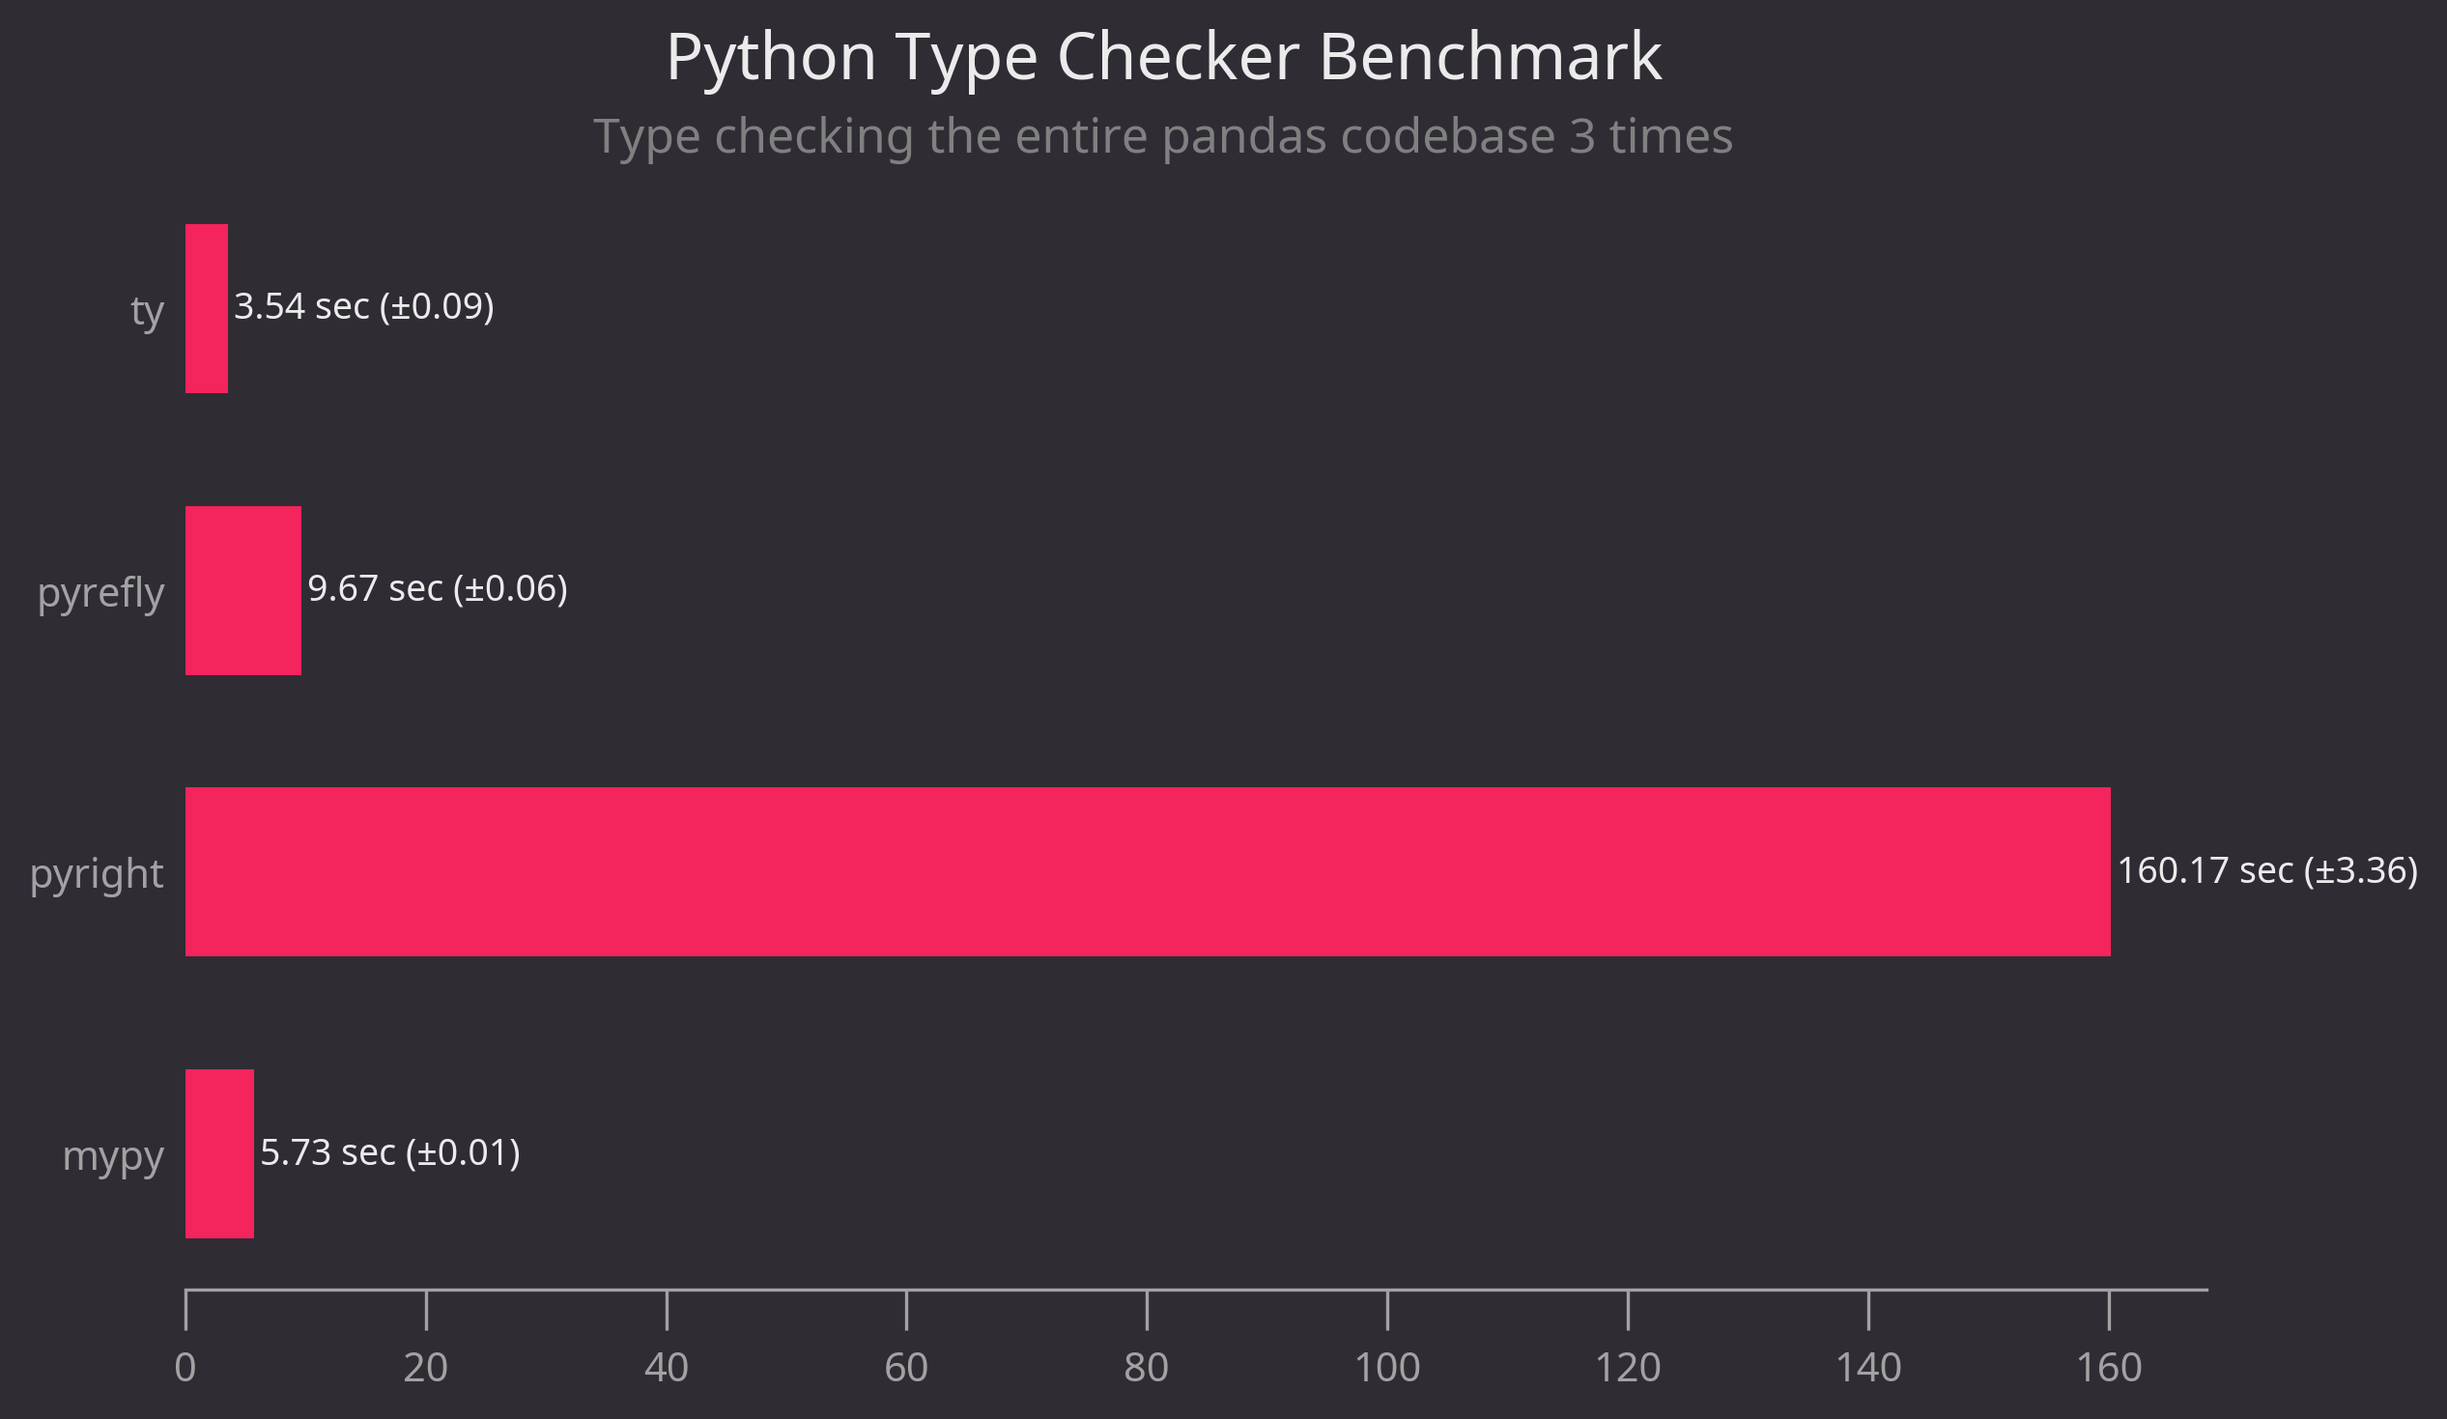
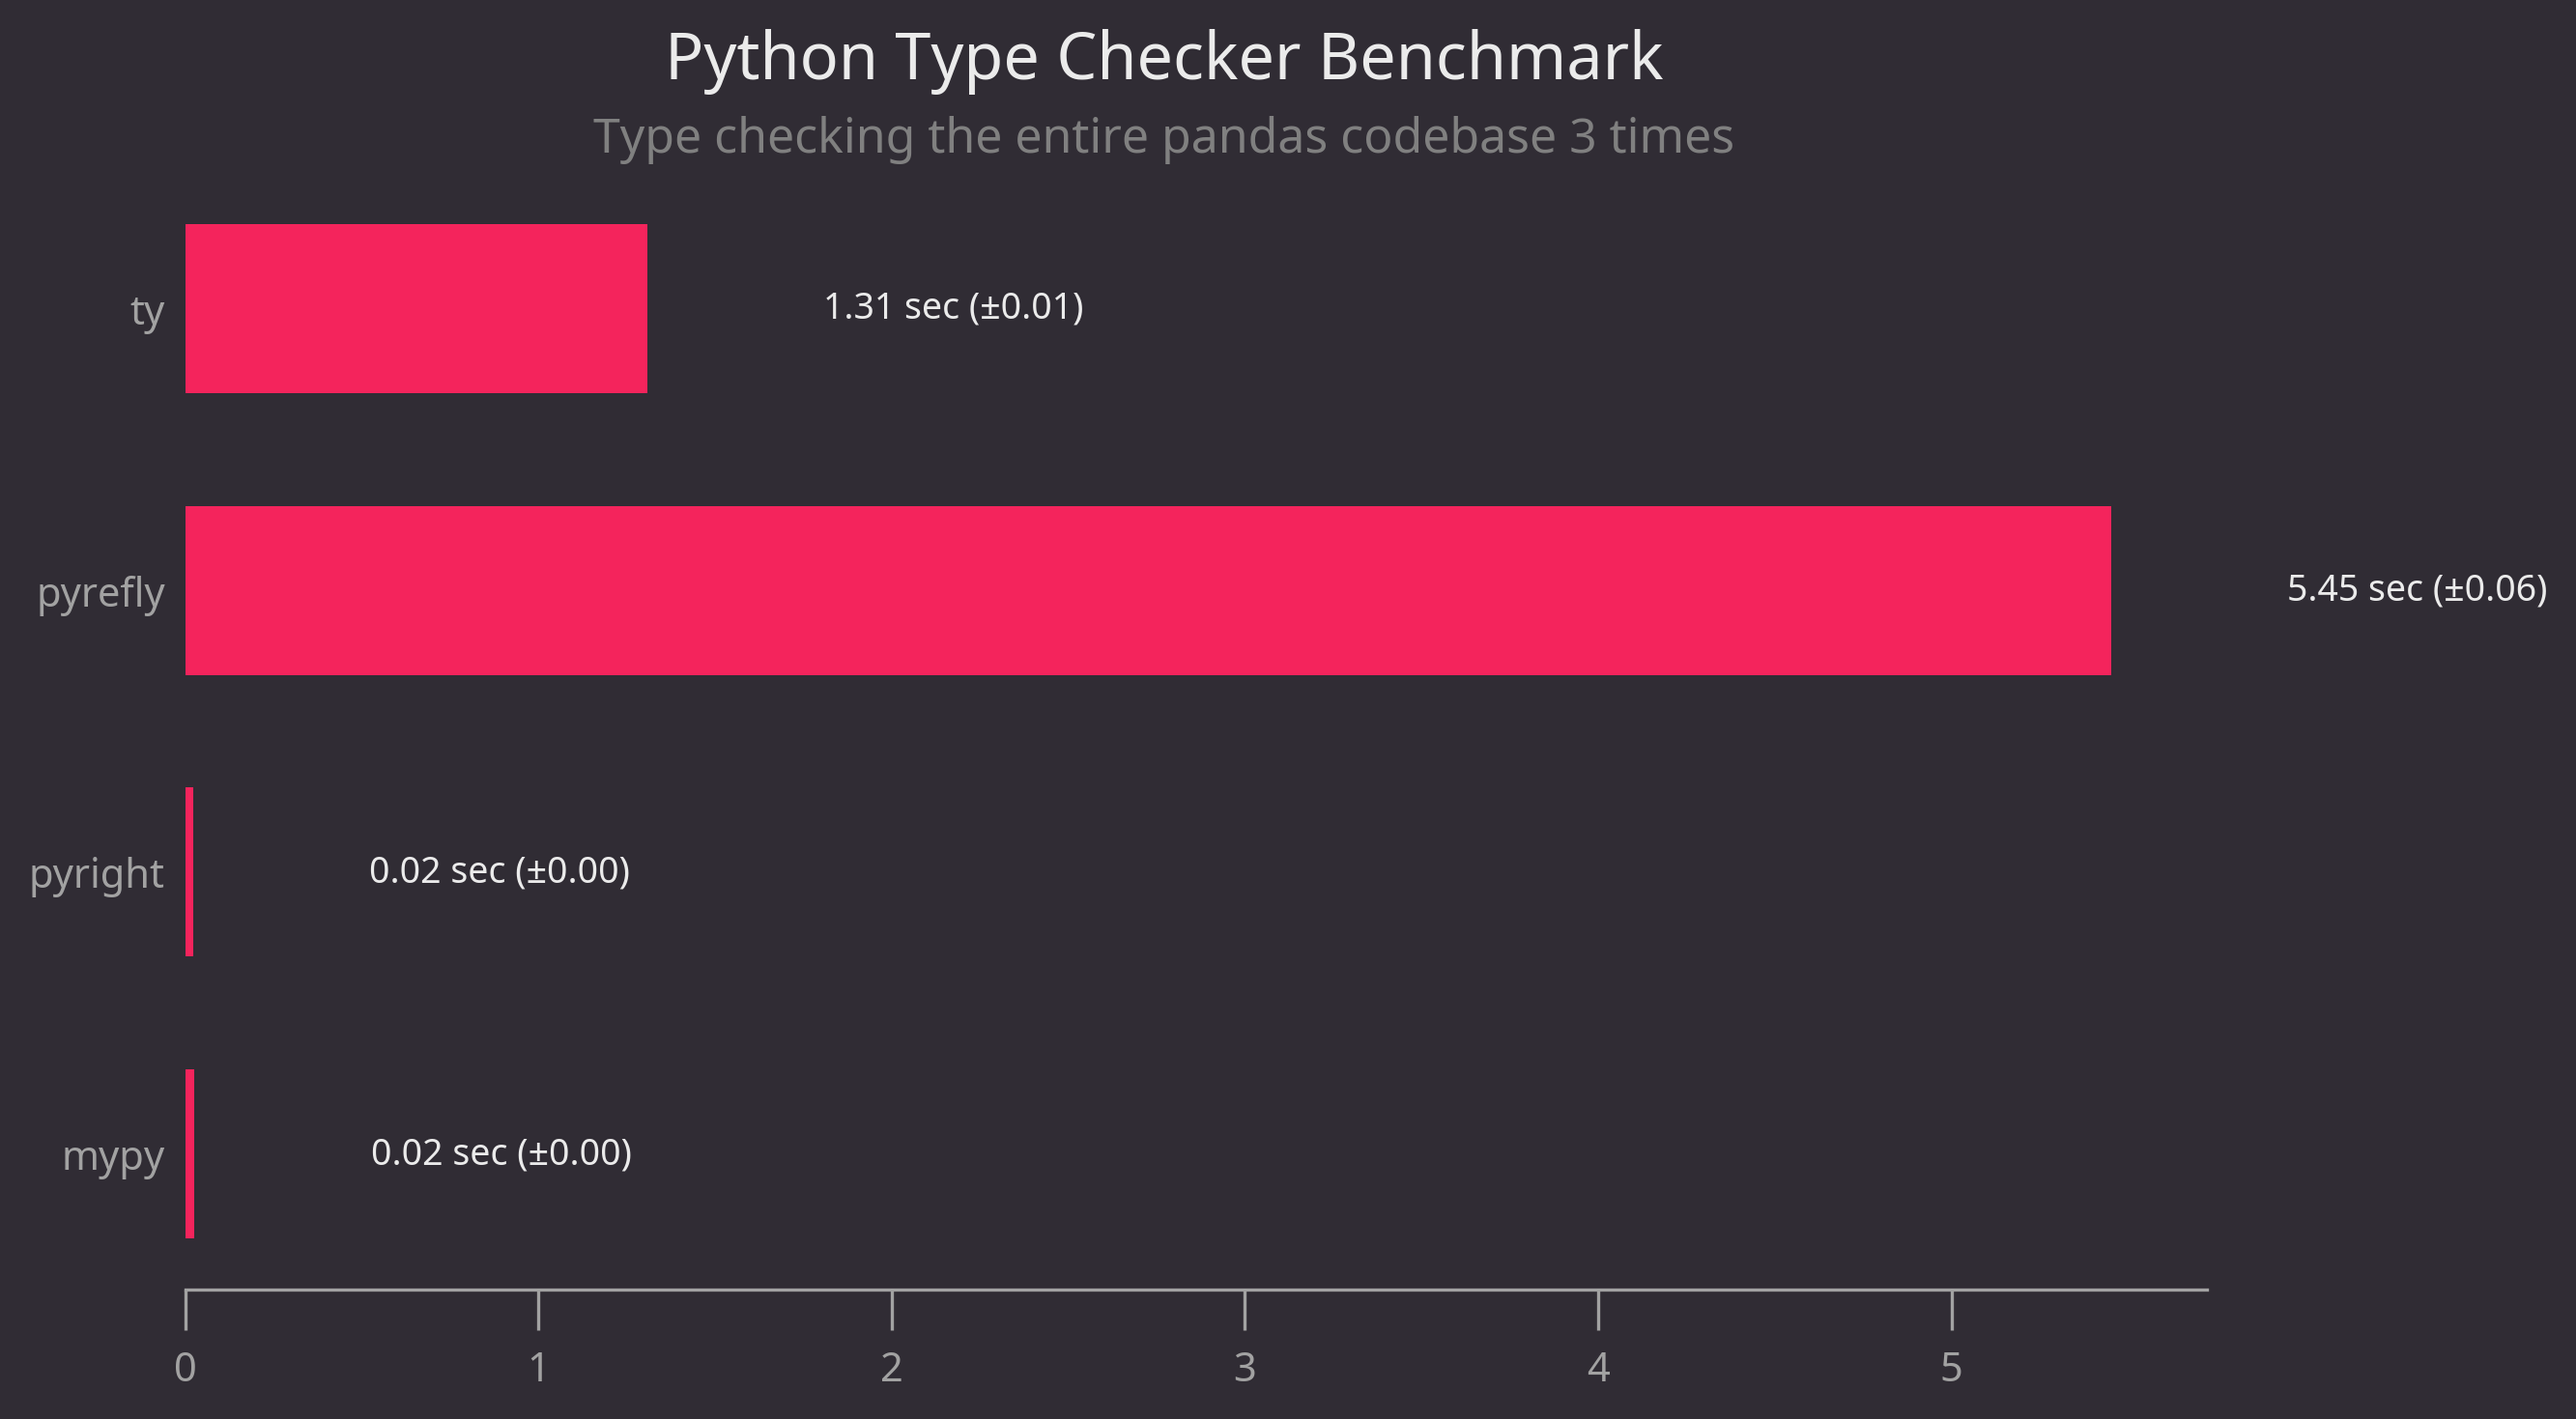
try to fix cache issue

diff --git a/benchmark.py b/benchmark.py
@@ -16,12 +16,12 @@ TARGET_DIR: Path = Path("codebase")
 
 PROJECT_PATH = "codebase"
 CHECKERS: dict = {
-    "mypy": ["uv", "run", "mypy", PROJECT_PATH],
+    "mypy": ["uv", "run", "mypy", "--cache-dir=/dev/null", PROJECT_PATH],
     "pyright": ["uv", "run", "pyright", PROJECT_PATH],
     "pyrefly": ["uv", "run", "pyrefly", "check", PROJECT_PATH],
     "ty": ["uv", "run", "ty", "check", PROJECT_PATH],
 }
-REPEATS = 3
+REPEATS: int = 3
 
 
 def run_benchmark(cmd):
